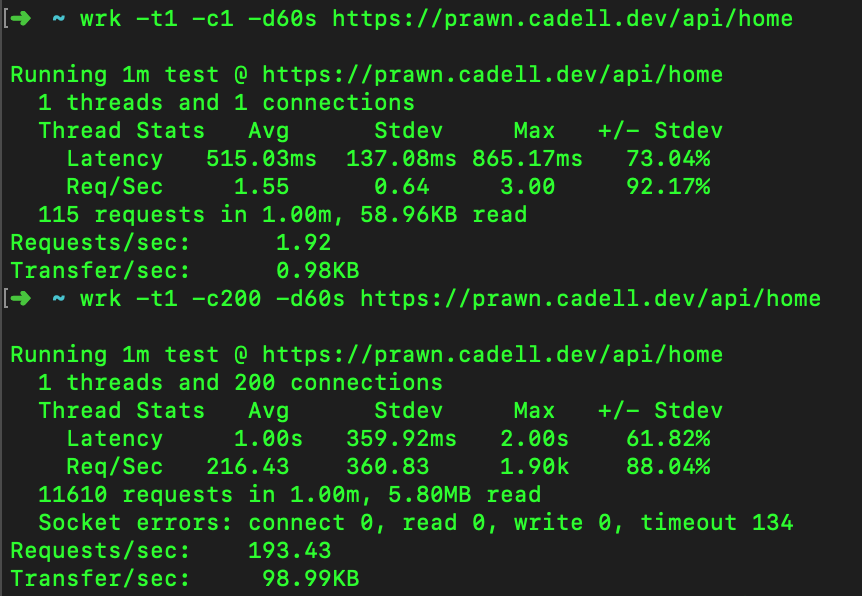
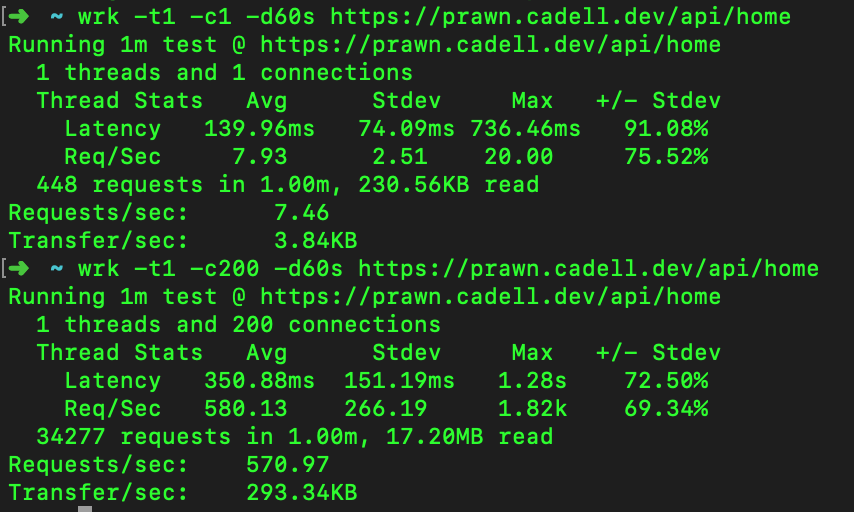
fixed latency by updating cloudfront settings
not sure if it was the priceclass or the tls

diff --git a/infrastructure/lib/prawn-stack.ts b/infrastructure/lib/prawn-stack.ts
@@ -204,11 +204,12 @@ export class PrawnStack extends cdk.Stack {
 			this,
 			"SiteDistribution",
 			{
+				priceClass: cloudfront.PriceClass.PRICE_CLASS_ALL,
 				viewerCertificate: cloudfront.ViewerCertificate.fromAcmCertificate(
 					certificate,
 					{
 						aliases: [customDomain],
-						securityPolicy: cloudfront.SecurityPolicyProtocol.TLS_V1,
+						securityPolicy: cloudfront.SecurityPolicyProtocol.TLS_V1_2_2021,
 						sslMethod: cloudfront.SSLMethod.SNI,
 					}
 				),

diff --git a/README.md b/README.md
@@ -95,11 +95,7 @@ I went with the NAT Instance because thankfully [CDK makes it easy](https://docs
 
 ![wrk results](./docs/assets/wrk.png)
 
-Even under light load, this stack is pretty slow, coming in at 515ms on average. I think this might be coming from the requests to SecretManager, through the NAT Instance but I'm not too sure. I setup AWS X-Ray and cached the secrets from SecretManager but it hasn't had much impact on latency. Fun fact, the HTTP API Gateway doesn't support X-Ray.
-
-With more load, our application can support a throughput of 193 requests per second or about 16.7 million per day at 1000ms latency. I'm going to ignore those socket errors.
-
-I worked this out by running tests with increasingly higher concurrent requests until the latency reached 1000ms where we consider the application to have failed. If we think higher latencies are acceptable then we might be able to support even more throughput.
+With more load, our application can support a throughput of 570 requests per second on average or about 49.2 million per day at 350ms latency. 350ms is still pretty fast and if we had a higher tolerance for latency then this stack could probably do more.
 
 You can install [wrk](https://github.com/wg/wrk) with:
 
@@ -238,6 +234,7 @@ I wanted to see if I could create a stack with similar qualities with more moder
 
 ### Done
 
+- Fixed the latency issue by tweaking cloudfront settings.
 - Cache secrets from SecretManager. Didn't make much difference to latency but it does reduce compute time which reduces costs.
 - Setup X-Ray tracing.
 - Load testing results with wrk.
